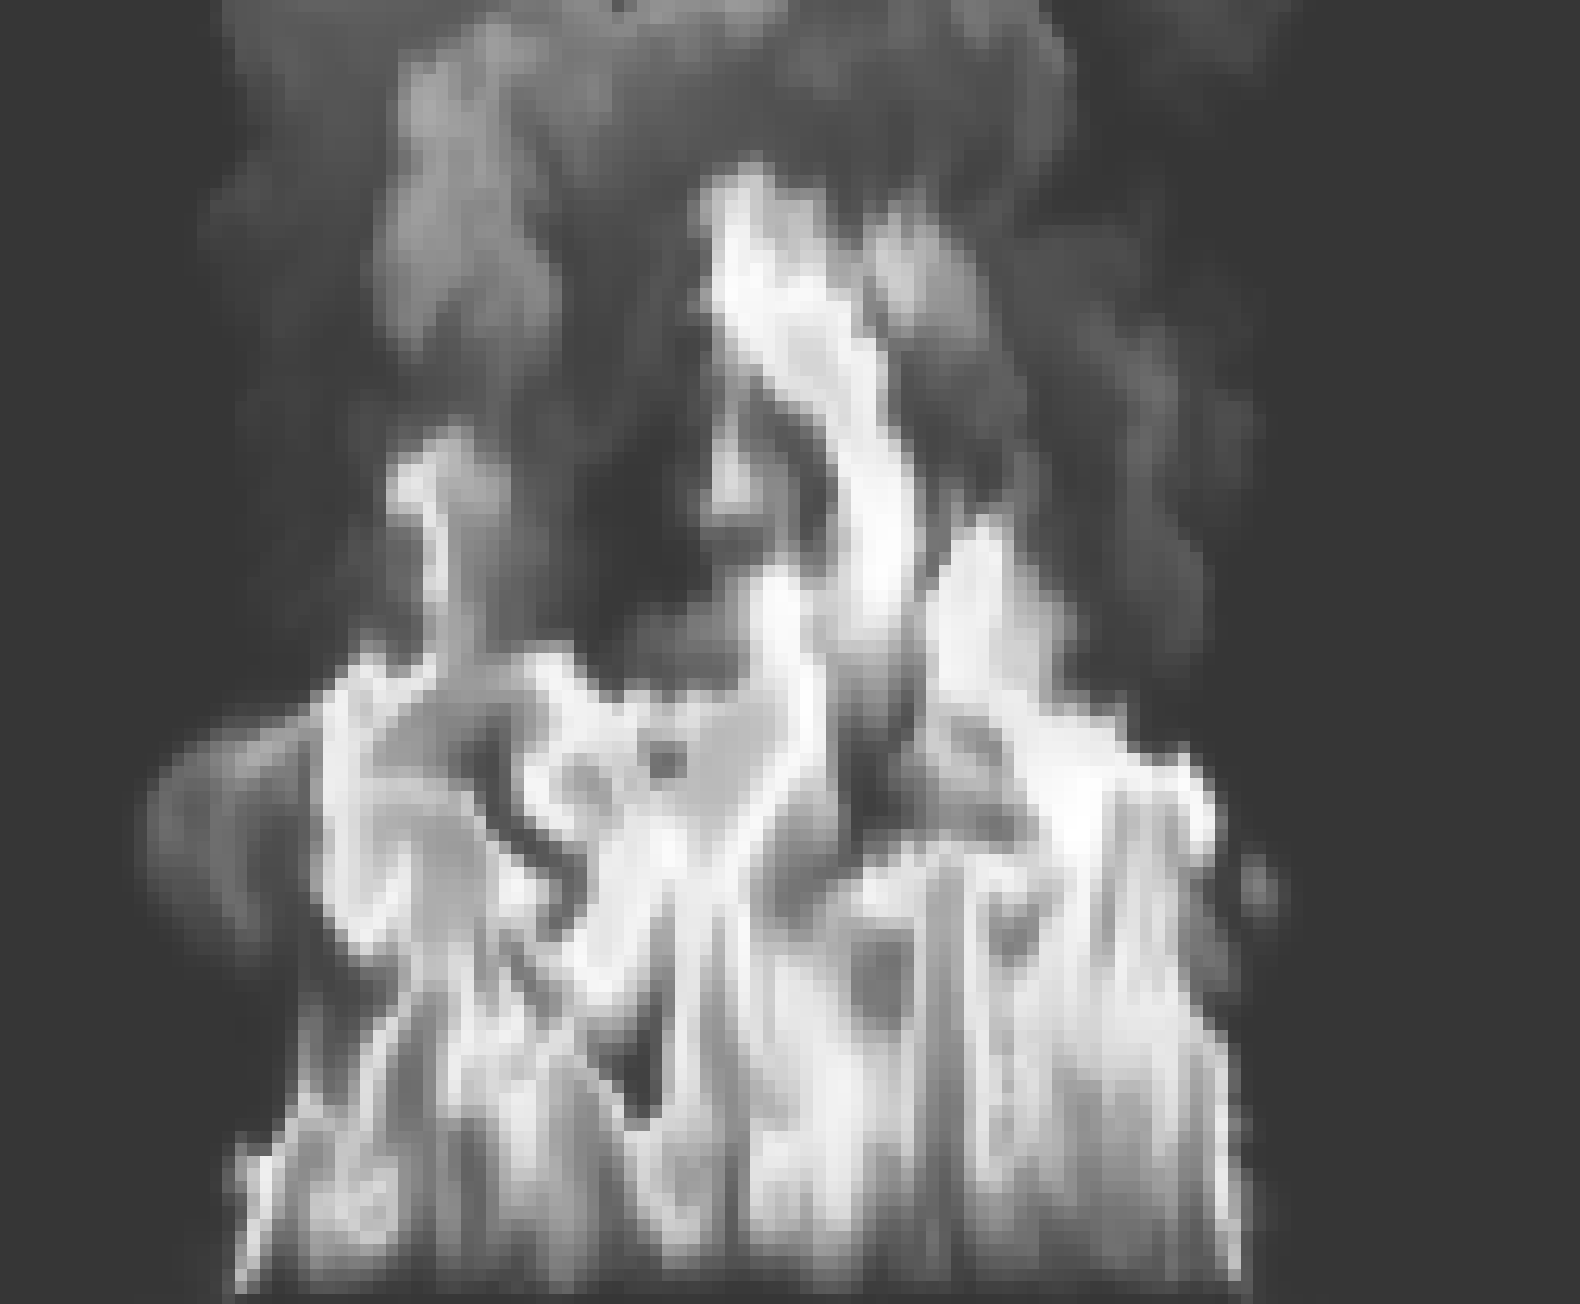
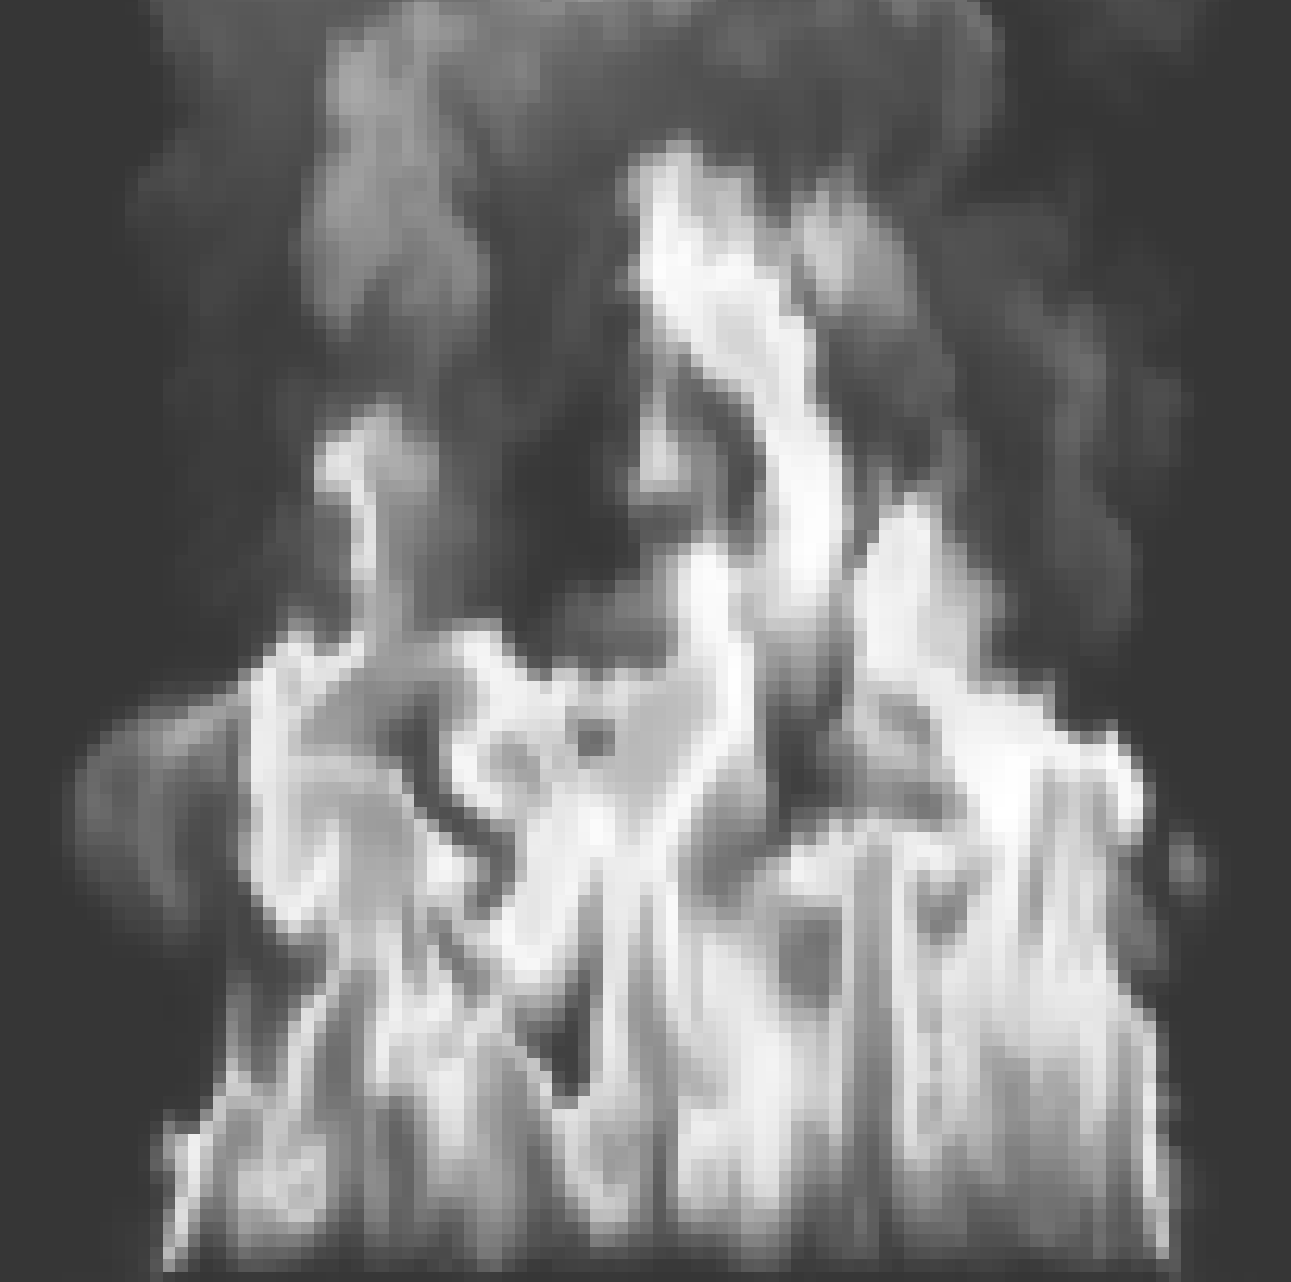
new image and index

diff --git a/index.html b/index.html
@@ -18,8 +18,9 @@
         <header class="inner">
           <a id="forkme_banner" href="https://github.com/rmcdermo/FDS-SMVgit">View on GitHub</a>
 
-          <h1 id="project_title">FDS-SMV</h1>
-          <h2 id="project_tagline">Fire Dynamics Simulator (FDS) and Smokeview (SMV)</h2>
+            <img src="images/fds-smv_flame.png" alt="some_text" width="128" height="128" border="0">
+            <h1 id="project_title">FDS-SMV</h1>
+            <h2 id="project_tagline">Fire Dynamics Simulator (FDS) and Smokeview (SMV)</h2>
 
             <section id="downloads">
               <a class="zip_download_link" href="https://github.com/rmcdermo/FDS-SMVgit/zipball/master">Download this project as a .zip file</a>
